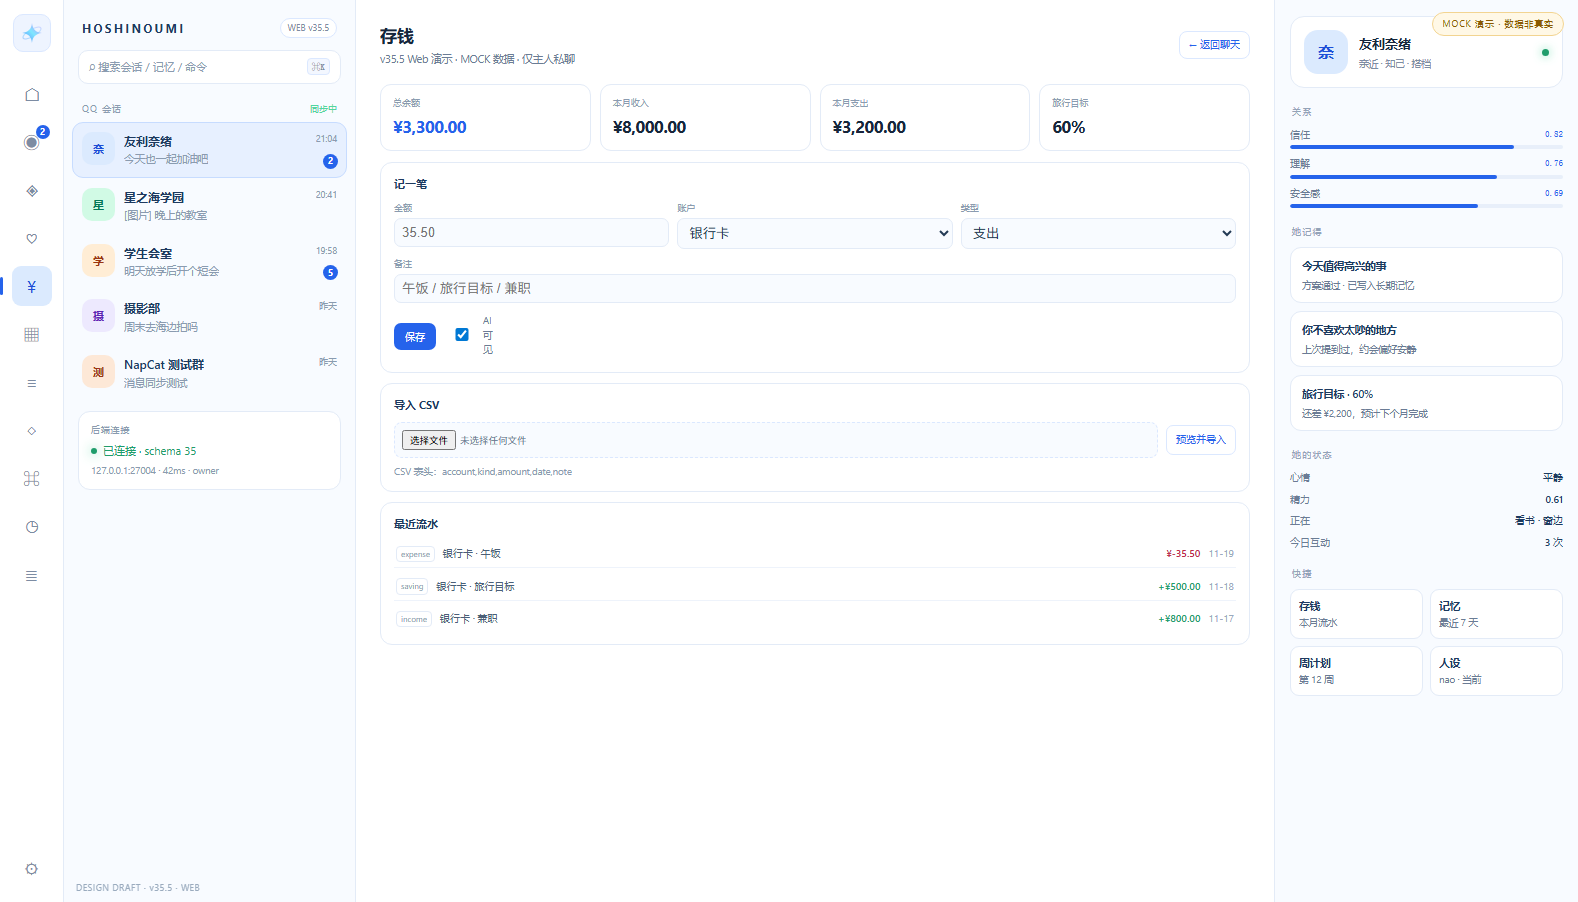
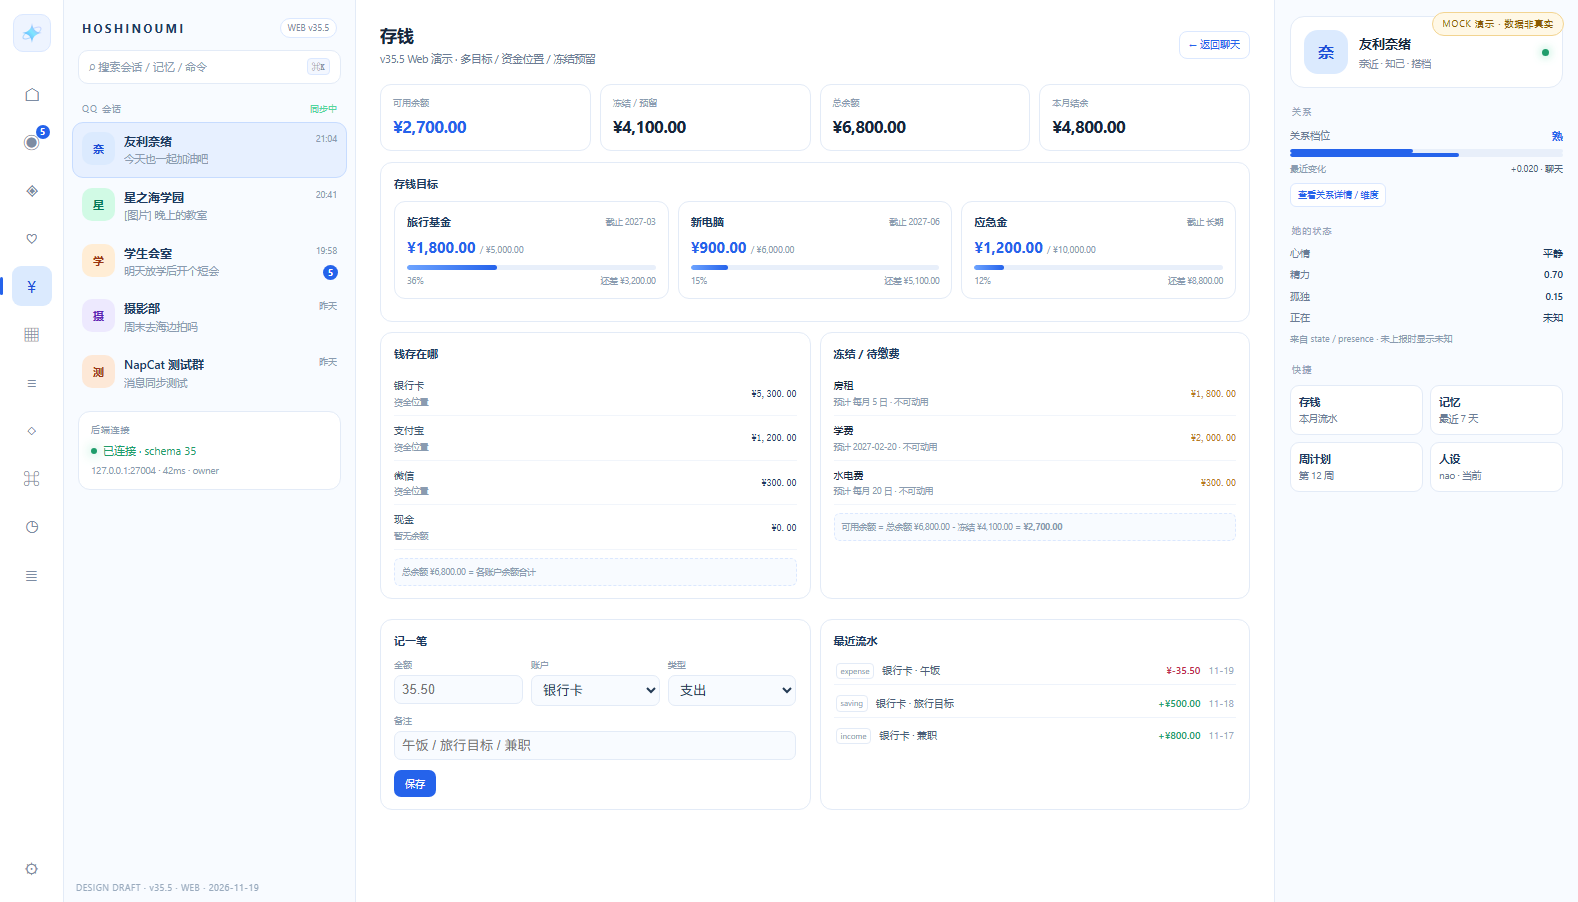
design(v35.5): 存钱页多目标/账户/冻结预览

diff --git a/docs/design/v35/web/demo.js b/docs/design/v35/web/demo.js
@@ -126,7 +126,7 @@
     .home-card h3{font-size:11px;margin:0 0 3px;color:#1e3a5f}
     .home-card p{font-size:9.5px;line-height:1.5;color:#6b7c95;margin:0}
     .home-card .st{font-size:9px;color:#1f9d6b;margin-top:7px}
-    .savings-grid{display:grid;grid-template-columns:repeat(4,1fr);gap:9px;margin-bottom:11px}
+    .savings-goals{display:grid;grid-template-columns:repeat(3,1fr);gap:9px;margin-bottom:10px}.goal-card{border:1px solid #e3ebf7;border-radius:11px;background:#fff;padding:11px 12px}.goal-top{display:flex;align-items:center;justify-content:space-between;gap:6px}.goal-top b{font-size:11px;color:#1e3a5f}.goal-top span{font-size:8.5px;color:#8a9bb0}.goal-amt{font-size:15px;font-weight:700;color:#2563eb;margin:6px 0 2px}.goal-amt small{font-size:9px;color:#8a9bb0;font-weight:400}.gbar{height:5px;border-radius:5px;background:#e8effa;overflow:hidden;margin:6px 0 4px}.gbar i{display:block;height:100%;border-radius:5px;background:linear-gradient(90deg,#6ea4ff,#2563eb)}.goal-foot{display:flex;justify-content:space-between;font-size:8.5px;color:#8a9bb0}.savings-two{display:grid;grid-template-columns:1fr 1fr;gap:9px;margin-bottom:10px}.money-row{display:flex;align-items:center;justify-content:space-between;border-bottom:1px solid #f1f5fb;padding:7px 0;font-size:10px;color:#405872}.money-row:last-child{border-bottom:0}.money-row .where{color:#8a9bb0;font-size:8.5px;margin-top:1px}.money-row .amt{font-family:ui-monospace,monospace;color:#1e3a5f}.frozen-row{display:flex;align-items:center;justify-content:space-between;border-bottom:1px solid #f1f5fb;padding:7px 0;font-size:10px}.frozen-row:last-child{border-bottom:0}.frozen-row .why{color:#8a9bb0;font-size:8.5px;margin-top:1px}.frozen-row .amt{color:#b7791f;font-family:ui-monospace,monospace}.frozen-tip{font-size:8.5px;color:#8a9bb0;background:#f8fbff;border:1px dashed #dbe8ff;border-radius:6px;padding:6px 7px;margin-top:8px;line-height:1.6}.stat-amber .v{color:#b7791f}.savings-grid{display:grid;grid-template-columns:repeat(4,1fr);gap:9px;margin-bottom:11px}
     .savings-stat{border:1px solid #e3ebf7;border-radius:11px;background:#fff;padding:11px 12px}
     .savings-stat .k{font-size:9px;color:#8a9bb0;margin-bottom:3px}.savings-stat .v{font-size:17px;font-weight:700;color:#17263b;letter-spacing:-.03em}
     .savings-stat .v.blue{color:#2563eb}
@@ -756,9 +756,21 @@
       return;
     }
     if (name === 'savings') {
+      /* v35.9.1 design: goals/accounts/frozen */
       const S = window.__savings || (window.__savings = {
-        income: 8000, expense: 3200, saved: 3300, target: 5500,
-        accounts: [['银行卡', 3300.00], ['支付宝', 0], ['微信', 0], ['现金', 0]],
+        income: 8000, expense: 3200,
+        goals: [
+          { name: '旅行基金', saved: 1800, target: 5000, due: '2027-03' },
+          { name: '新电脑', saved: 900, target: 6000, due: '2027-06' },
+          { name: '应急金', saved: 1200, target: 10000, due: '长期' }
+        ],
+        frozen: [
+          { name: '房租', amount: 1800, due: '每月 5 日' },
+          { name: '学费', amount: 2000, due: '2027-02-20' },
+          { name: '水电费', amount: 300, due: '每月 20 日' }
+        ],
+        saved: 3300, target: 5500,
+        accounts: [['银行卡', 5300.00], ['支付宝', 1200], ['微信', 300], ['现金', 0]],
         entries: [
           ['11-19', 'expense', '银行卡', '午饭', -35.5],
           ['11-18', 'saving', '银行卡', '旅行目标', 500],
@@ -769,11 +781,19 @@
       function renderSavings() {
         const rows = S.entries.map(e => '<div class="entry"><span class="tag">' + esc(e[1]) + '</span><span>' + esc(e[2]) + ' · ' + esc(e[3]) + '</span><span class="amt ' + (e[4] < 0 ? 'neg' : 'pos') + '">' + (e[4] > 0 ? '+' : '') + money(e[4]) + '</span><span style="color:#9aabbe">' + esc(e[0]) + '</span></div>').join('');
         const total = S.accounts.reduce((n, a) => n + Number(a[1] || 0), 0);
-        pageView.innerHTML = '<div class="page-head"><div><h2>存钱</h2><p>v35.5 Web 演示 · MOCK 数据 · 仅主人私聊</p></div><button class="back" id="backChat">← 返回聊天</button></div>' +
-          '<div class="savings-grid"><div class="savings-stat"><div class="k">总余额</div><div class="v blue">' + money(total) + '</div></div><div class="savings-stat"><div class="k">本月收入</div><div class="v">' + money(S.income) + '</div></div><div class="savings-stat"><div class="k">本月支出</div><div class="v">' + money(S.expense) + '</div></div><div class="savings-stat"><div class="k">旅行目标</div><div class="v">' + Math.round(S.target ? (S.saved / S.target * 100) : 0) + '%</div></div></div>' +
-          '<div class="savings-panel"><h3>记一笔</h3><div class="savings-form"><div><label>金额</label><input id="svAmount" type="number" step="0.01" placeholder="35.50"></div><div><label>账户</label><select id="svAccount">' + S.accounts.map(a => '<option>' + esc(a[0]) + '</option>').join('') + '</select></div><div><label>类型</label><select id="svKind"><option value="expense">支出</option><option value="income">收入</option><option value="saving">存钱</option></select></div><div class="full"><label>备注</label><input id="svNote" placeholder="午饭 / 旅行目标 / 兼职"></div><div class="actions"><button id="svSave">保存</button><label class="ai"><input type="checkbox" id="svAI" checked> AI 可见</label><span class="import-status" id="svMsg"></span></div></div></div>' +
-          '<div class="savings-panel"><h3>导入 CSV</h3><div class="import-row"><input id="csvFile" type="file" accept=".csv,text/csv"><button id="csvPreview">预览并导入</button></div><div class="import-status" id="csvMsg">CSV 表头：account,kind,amount,date,note</div></div>' +
-          '<div class="savings-panel"><h3>最近流水</h3><div class="entry-list">' + rows + '</div></div>';
+        const frozen = (S.frozen || []).reduce((n, f) => n + Number(f.amount || 0), 0);
+        const available = total - frozen;
+        const goalCards = (S.goals || []).map(g => {
+          const pct = g.target ? Math.min(100, Math.round(g.saved / g.target * 100)) : 0;
+          return '<div class="goal-card"><div class="goal-top"><b>' + esc(g.name) + '</b><span>截止 ' + esc(g.due) + '</span></div><div class="goal-amt">' + money(g.saved) + ' <small>/ ' + money(g.target) + '</small></div><div class="gbar"><i style="width:' + pct + '%"></i></div><div class="goal-foot"><span>' + pct + '%</span><span>还差 ' + money(Math.max(0, g.target - g.saved)) + '</span></div></div>';
+        }).join('');
+        const accountRows = S.accounts.map(a => '<div class="money-row"><div><div>' + esc(a[0]) + '</div><div class="where">' + (a[1] ? '资金位置' : '暂无余额') + '</div></div><span class="amt">' + money(a[1]) + '</span></div>').join('');
+        const frozenRows = (S.frozen || []).map(f => '<div class="frozen-row"><div><div>' + esc(f.name) + '</div><div class="why">预计 ' + esc(f.due) + ' · 不可动用</div></div><span class="amt">' + money(f.amount) + '</span></div>').join('');
+        pageView.innerHTML = '<div class="page-head"><div><h2>存钱</h2><p>v35.5 Web 演示 · 多目标 / 资金位置 / 冻结预留</p></div><button class="back" id="backChat">← 返回聊天</button></div>' +
+          '<div class="savings-grid"><div class="savings-stat"><div class="k">可用余额</div><div class="v blue">' + money(available) + '</div></div><div class="savings-stat stat-amber"><div class="k">冻结 / 预留</div><div class="v">' + money(frozen) + '</div></div><div class="savings-stat"><div class="k">总余额</div><div class="v">' + money(total) + '</div></div><div class="savings-stat"><div class="k">本月结余</div><div class="v">' + money(S.income - S.expense) + '</div></div></div>' +
+          '<div class="savings-panel"><h3>存钱目标</h3><div class="savings-goals">' + goalCards + '</div></div>' +
+          '<div class="savings-two"><div class="savings-panel"><h3>钱存在哪</h3>' + accountRows + '<div class="frozen-tip">总余额 ' + money(total) + ' = 各账户余额合计</div></div><div class="savings-panel"><h3>冻结 / 待缴费</h3>' + frozenRows + '<div class="frozen-tip">可用余额 = 总余额 ' + money(total) + ' - 冻结 ' + money(frozen) + ' = <b>' + money(available) + '</b></div></div></div>' +
+          '<div class="savings-two"><div class="savings-panel"><h3>记一笔</h3><div class="savings-form"><div><label>金额</label><input id="svAmount" type="number" step="0.01" placeholder="35.50"></div><div><label>账户</label><select id="svAccount">' + S.accounts.map(a => '<option>' + esc(a[0]) + '</option>').join('') + '</select></div><div><label>类型</label><select id="svKind"><option value="expense">支出</option><option value="income">收入</option><option value="saving">存钱</option></select></div><div class="full"><label>备注</label><input id="svNote" placeholder="午饭 / 旅行目标 / 兼职"></div><div class="actions"><button id="svSave">保存</button><span class="import-status" id="svMsg"></span></div></div></div><div class="savings-panel"><h3>最近流水</h3><div class="entry-list">' + rows + '</div></div></div>';
         document.getElementById('backChat').addEventListener('click', () => showChat());
         document.getElementById('svSave').addEventListener('click', () => {
           const amount = Number(document.getElementById('svAmount').value);
@@ -787,7 +807,7 @@
           const acc = S.accounts.find(a => a[0] === account); if (acc) acc[1] = Number(acc[1] || 0) + delta;
           renderSavings(); toast('已记一笔 · MOCK');
         });
-        document.getElementById('csvPreview').addEventListener('click', () => {
+        const csvBtn = document.getElementById('csvPreview'); if (csvBtn) csvBtn.addEventListener('click', () => {
           const f = document.getElementById('csvFile').files[0];
           const msg = document.getElementById('csvMsg');
           if (!f) { msg.textContent = '先选择 CSV 文件'; return; }
